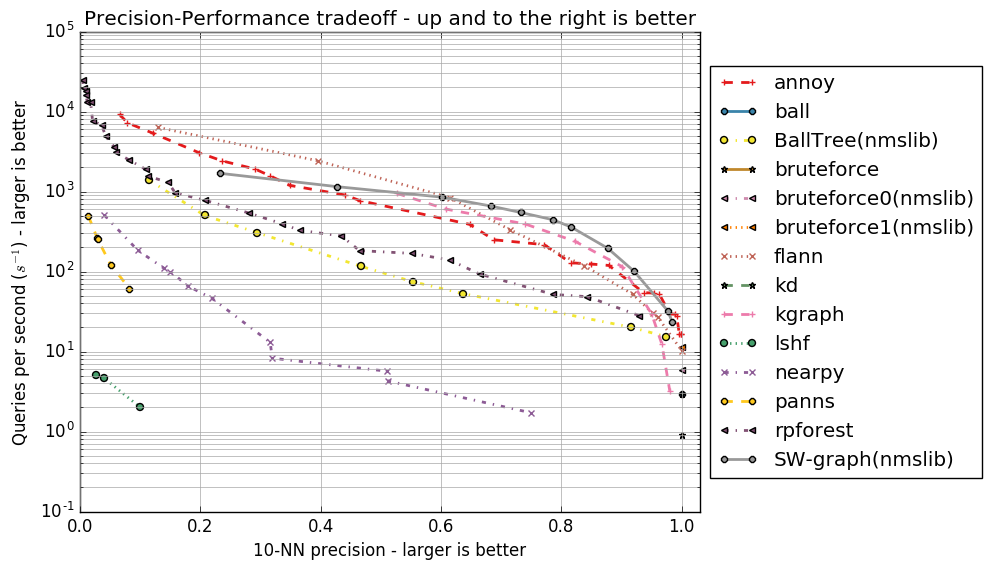
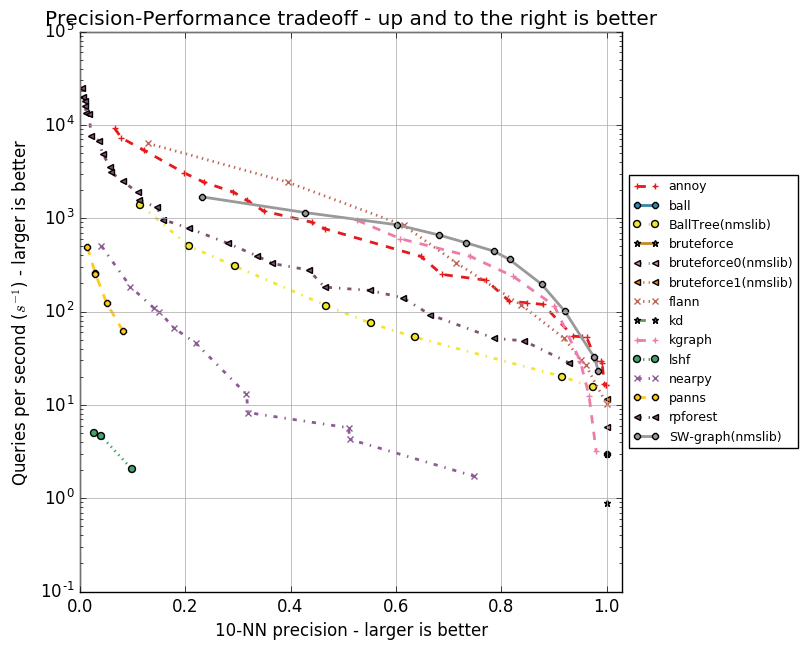
a bit tighter plots so github doesn't squeeze them

Changed region(s): [[0.0, 0.0, 1.0, 0.9842]]

diff --git a/plot.py b/plot.py
@@ -32,7 +32,7 @@ for fn_in, fn_out in zip(args.input, args.output):
     handles = []
     labels = []
 
-    plt.clf()
+    plt.figure(figsize=(7, 7))
     for algo in sorted(all_data.keys(), key=lambda x: x.lower()):
         data = all_data[algo]
         data.sort(key=lambda t: t[-2]) # sort by time
@@ -60,7 +60,7 @@ for fn_in, fn_out in zip(args.input, args.output):
     plt.gca().set_xlabel('10-NN precision - larger is better')
     box = plt.gca().get_position()
     # plt.gca().set_position([box.x0, box.y0, box.width * 0.8, box.height])
-    plt.gca().legend(handles, labels, loc='center left', bbox_to_anchor=(1, 0.5))
-    plt.grid(b=True, which='both', color='0.65',linestyle='-')
+    plt.gca().legend(handles, labels, loc='center left', bbox_to_anchor=(1, 0.5), prop={'size': 9})
+    plt.grid(b=True, which='major', color='0.65',linestyle='-')
     plt.xlim([0.0, 1.03])
     plt.savefig(fn_out, bbox_inches='tight')
